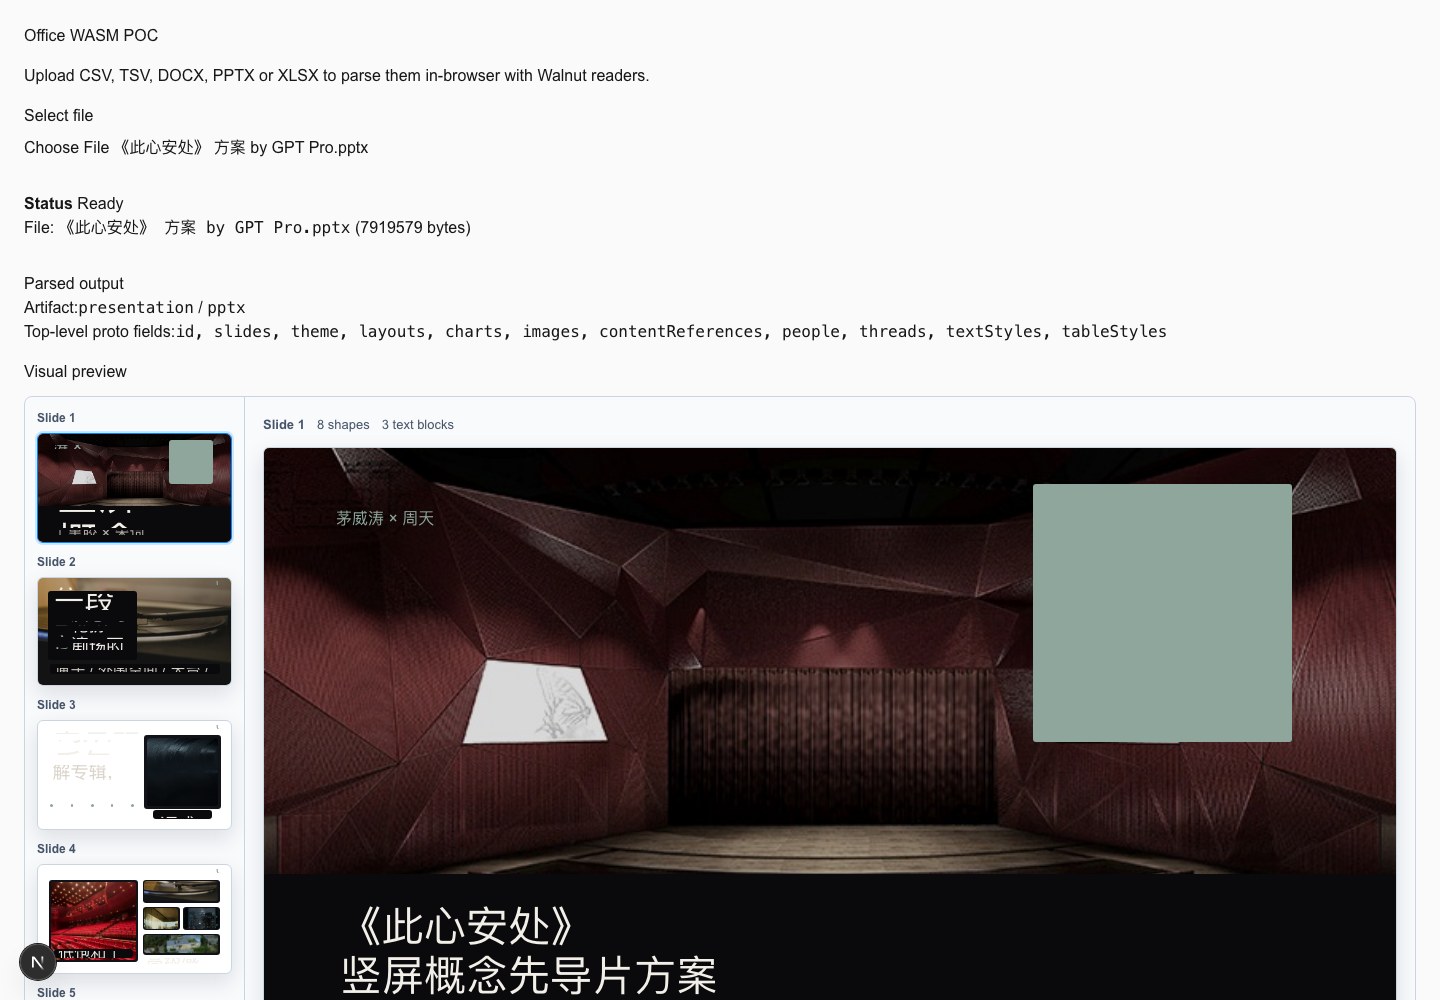
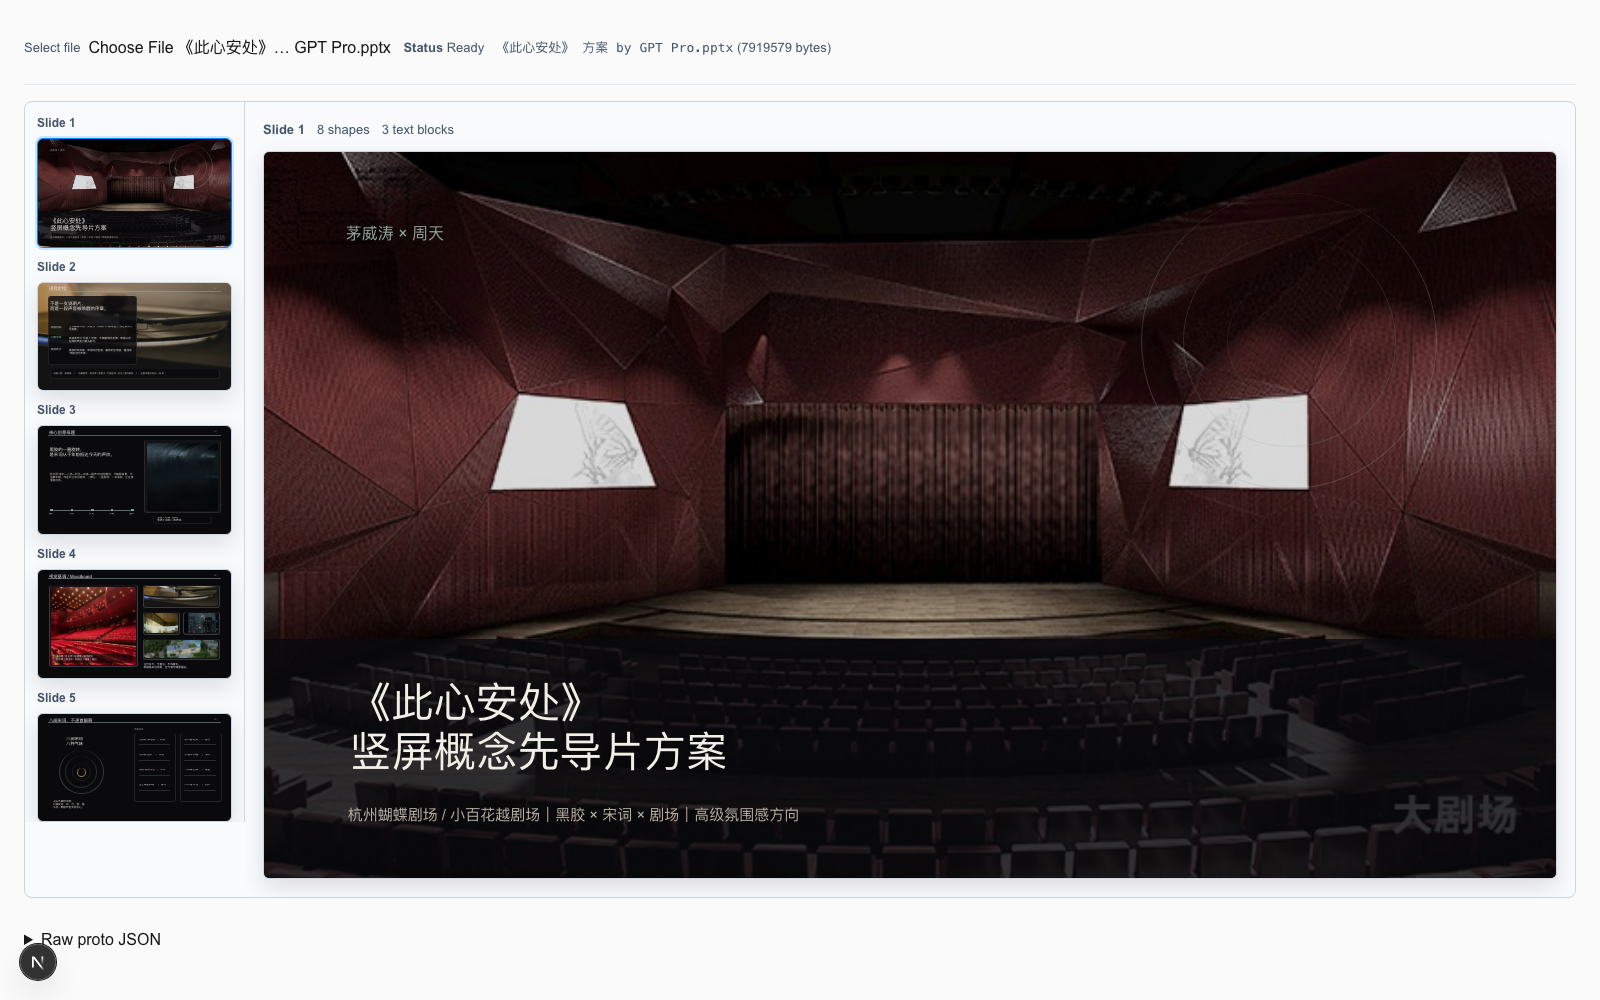
fix(debug): reduce office preview chrome

diff --git a/src/app/debug/office-wasm-poc/page-client.tsx b/src/app/debug/office-wasm-poc/page-client.tsx
@@ -153,14 +153,6 @@ async function parseDocument(file: File, kind: "docx" | "pptx" | "xlsx"): Promis
   return { kind: "spreadsheet", sourceKind: "xlsx", proto };
 }
 
-function buildSummary(parsed: ParsedArtifact | null): string[] {
-  if (!parsed || typeof parsed.proto !== "object" || parsed.proto === null) {
-    return [];
-  }
-
-  return Object.keys(parsed.proto as Record<string, unknown>).slice(0, 20);
-}
-
 function truncateJson(rawJson: string): string {
   const maxLength = 50_000;
   if (rawJson.length <= maxLength) return rawJson;
@@ -877,7 +869,6 @@ export function OfficeWasmPocPageClient() {
 
   const preview =
     artifact == null ? "" : truncateJson(JSON.stringify(artifact.proto, null, 2));
-  const summary = buildSummary(artifact);
   const labels: PreviewLabels = {
     visualPreview: t.debug.officeWasmPocVisualPreview,
     rawJson: t.debug.officeWasmPocRawJson,
@@ -906,46 +897,42 @@ export function OfficeWasmPocPageClient() {
         width: "100%",
       }}
     >
-      <h1>{t.debug.officeWasmPocTitle}</h1>
-      <p>{t.debug.officeWasmPocDescription}</p>
-      <label style={{ display: "grid", gap: 8, width: "100%", maxWidth: 360 }}>
-        <span>{t.debug.officeWasmPocSelectFile}</span>
-        <input
-          ref={fileInputRef}
-          type="file"
-          accept=".csv,.tsv,.docx,.pptx,.xlsx"
-          onChange={parseFile}
-          disabled={isBusy}
-        />
-      </label>
-
-      <section style={{ marginTop: 16 }}>
-        <div><strong>{t.debug.officeWasmPocStatus}</strong> {statusLabel(t, status)}</div>
+      <header
+        style={{
+          alignItems: "center",
+          borderBottom: "1px solid #e2e8f0",
+          display: "flex",
+          flexWrap: "wrap",
+          gap: 12,
+          paddingBottom: 12,
+        }}
+      >
+        <label style={{ alignItems: "center", display: "flex", gap: 8 }}>
+          <span style={{ color: "#475569", fontSize: 13 }}>{t.debug.officeWasmPocSelectFile}</span>
+          <input
+            ref={fileInputRef}
+            type="file"
+            accept=".csv,.tsv,.docx,.pptx,.xlsx"
+            onChange={parseFile}
+            disabled={isBusy}
+          />
+        </label>
+        <div style={{ color: "#475569", fontSize: 13 }}>
+          <strong>{t.debug.officeWasmPocStatus}</strong> {statusLabel(t, status)}
+        </div>
         {selectedFileName ? (
-          <div>
-            {t.debug.officeWasmPocFile} <code>{selectedFileName}</code>
+          <div style={{ color: "#475569", fontSize: 13 }}>
+            <code>{selectedFileName}</code>
             {lastBytes !== null ? <> ({lastBytes} {t.debug.officeWasmPocBytes})</> : null}
           </div>
         ) : null}
-        {errorMessage ? <p style={{ color: "#b91c1c" }}>{errorMessage}</p> : null}
-      </section>
+        {errorMessage ? <div style={{ color: "#b91c1c", fontSize: 13 }}>{errorMessage}</div> : null}
+      </header>
 
-      <section style={{ marginTop: 16 }}>
-        <h2>{t.debug.officeWasmPocParsedOutput}</h2>
+      <section>
         {artifact ? (
-          <div>
-            <p>
-              {t.debug.officeWasmPocArtifactType}
-              <code>{artifact.kind}</code> / <code>{artifact.sourceKind}</code>
-            </p>
-            {summary.length > 0 ? (
-              <p>
-                {t.debug.officeWasmPocTopFields}
-                <code>{summary.join(", ")}</code>
-              </p>
-            ) : null}
-            <section data-testid="office-preview" style={{ display: "grid", gap: 12, marginTop: 16 }}>
-              <h3 style={{ margin: 0 }}>{labels.visualPreview}</h3>
+          <div style={{ display: "grid", gap: 12 }}>
+            <section data-testid="office-preview">
               <OfficePreview artifact={artifact} labels={labels} />
             </section>
             <details style={{ marginTop: 18 }}>

diff --git a/docs/issues/2026-05-01-office-document-viewer-wasm-reader.md b/docs/issues/2026-05-01-office-document-viewer-wasm-reader.md
@@ -403,6 +403,7 @@ Additional browser smoke validation after adding the Codex-like PPTX split layou
 - Existing PPTX preview still renders expected title content.
 - `《此心安处》` PPTX renders as left thumbnail rail plus right slide canvas, with scrollable page container, scrollable thumbnail rail, and 22 image-backed elements detected in the preview DOM.
 - Compared slide 12 against a LibreOffice-rasterized PPTX reference via `browser-use`; fixed alpha/background/line rendering and thumbnail font scaling so the thumbnail rail no longer shows oversized text or solid transparent shapes.
+- Removed the noisy debug copy above the preview; the POC now keeps only a compact upload/status bar and the folded raw proto JSON panel.
 
 Screenshots:
 
